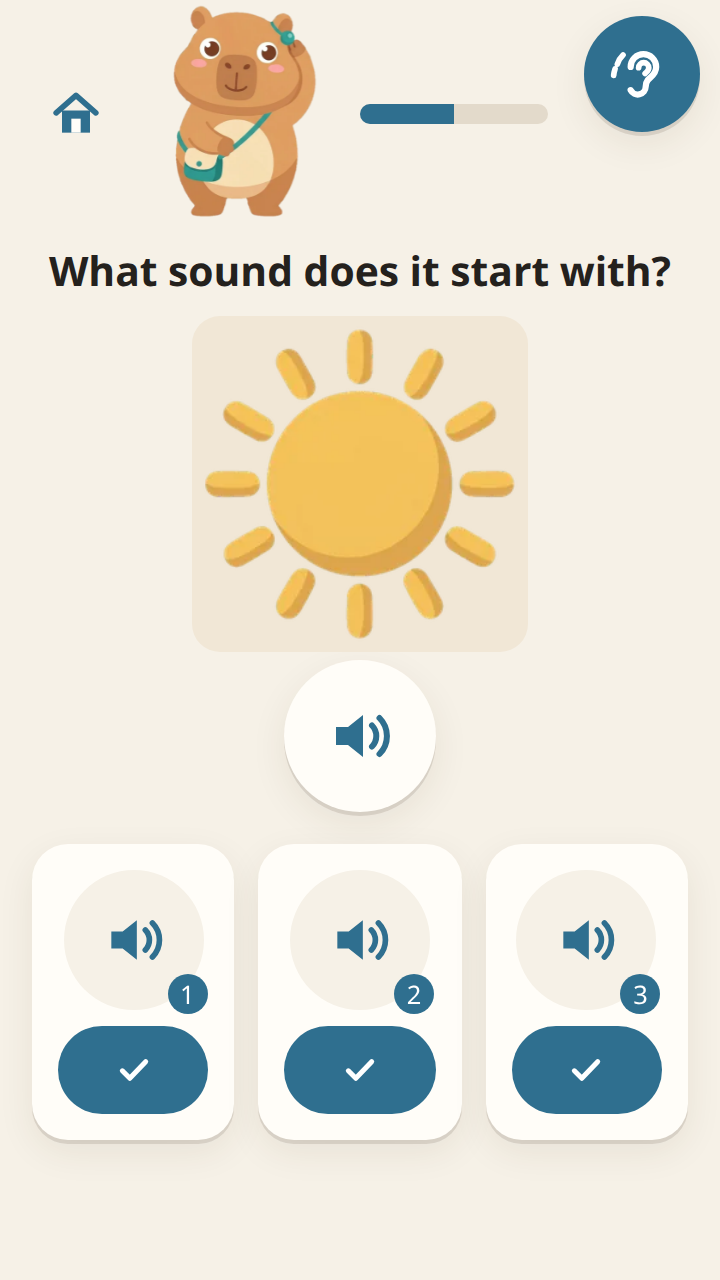
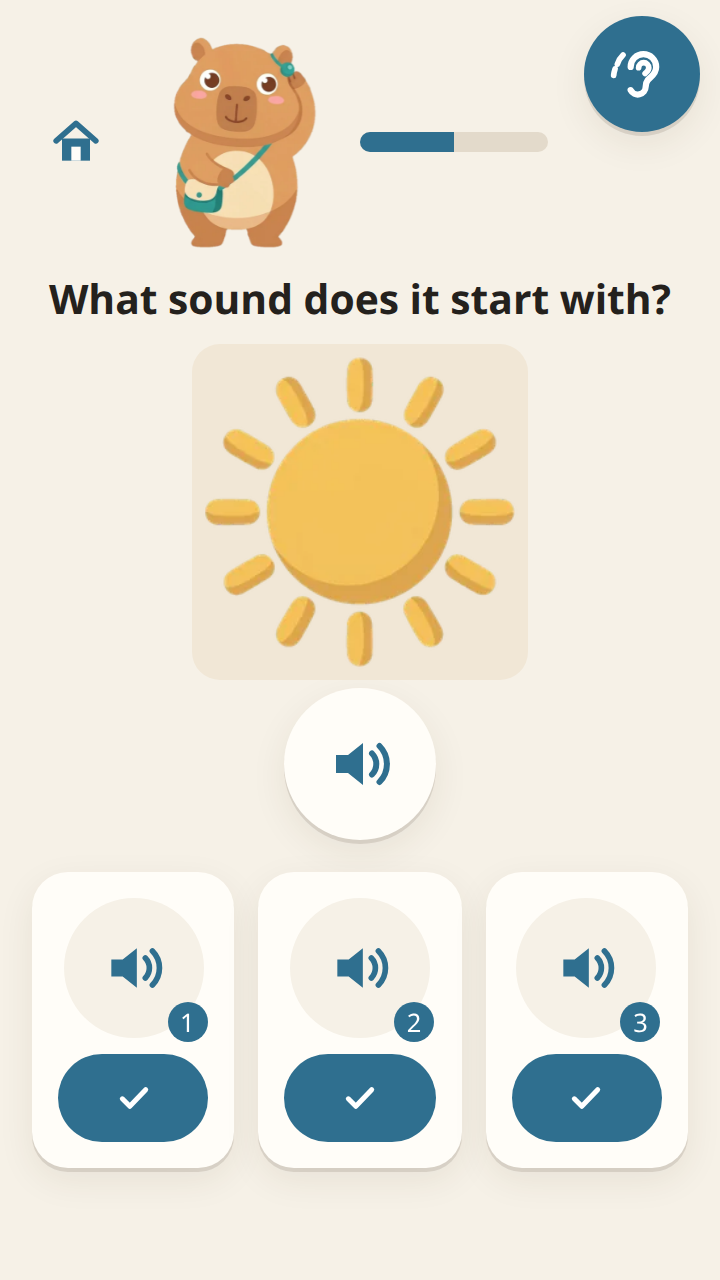
tilo: cheerful D/smile talking mouths, header gap, speaker glyph in empty picture box, listening pose + scene on Listen questions, pulsing hint halo

diff --git a/app/src/style.css b/app/src/style.css
@@ -146,12 +146,15 @@ table.mastery tr.unmet td { color: var(--bad); }
   background: var(--accent); color: #fff; box-shadow: var(--shadow); display: grid; place-items: center; padding: 0; }
 .ear .ear-ic svg { width: 34px; height: 34px; display: block; }
 .ear.playing { animation: pulse .8s ease-in-out infinite; }
-.ear.attn { outline: 5px solid var(--hl); outline-offset: 3px; animation: pulse 1s ease-in-out infinite; }
+.ear.attn { outline: 5px solid transparent; outline-offset: 3px; animation: halo 1.7s ease-in-out infinite; }
 header.hdr, .homehdr { padding-right: 70px; }   /* keeps the row clear of the fixed ear button */
 .homehdr { flex-wrap: wrap; row-gap: 2px; } .homehdr .btn { max-width: 100%; }
-.track-A header.hdr { padding-block: 2px; }
+.track-A header.hdr { padding-block: 16px 2px; }   /* a clear gap above Tilo's ears at 360x640 */
 .onboard { padding-top: 12vh; }
-.nudge { outline: 5px solid var(--hl); outline-offset: 3px; animation: pulse 1.1s ease-in-out 5; }
+.nudge { outline: 5px solid transparent; outline-offset: 3px; animation: halo 1.7s ease-in-out infinite; }
+/* the idle hint: a gentle breathing halo (never a constant ring, which reads as a selection); a still, soft ring under reduced motion */
+@keyframes halo { 0%, 100% { outline-color: rgba(255, 224, 138, 0); outline-offset: 2px; } 50% { outline-color: rgba(255, 214, 90, .95); outline-offset: 7px; } }
+@media (prefers-reduced-motion: reduce) { .nudge, .ear.attn { animation: none; outline-color: rgba(255, 214, 90, .7); } }
 .opt.nudge, .printed .g.nudge { border-radius: 14px; }
 .btn .bi svg, .opt-pick .bi svg, .node .bi svg { width: 22px; height: 22px; }
 .btn .bi, .opt-pick .bi { display: inline-grid; margin-right: 8px; vertical-align: middle; position: static; }
@@ -178,8 +181,6 @@ header.hdr, .homehdr { padding-right: 70px; }   /* keeps the row clear of the fi
 .tilo-body { position: absolute; inset: 0; width: 100%; height: 100%; opacity: 0; }
 .tilo-body.on { opacity: 1; }
 .tilo-mouth { position: absolute; transform-origin: 50% 8%; }
-/* aaa stays full size (its bottom already touches the muzzle edge); mid is a smaller, shallower mouth, so aaa reads clearly more open */
-.tilo-mouth[data-mouth="mid"] { transform: scale(.85, .66); }
 .tilo.pop .tilo-stage { animation: tilo-breathe 3.2s ease-in-out infinite, tilo-pop .32s ease-out; }
 .tilo[data-pose="celebrating"] .tilo-stage { animation: tilo-breathe 3.2s ease-in-out infinite, tilo-hop .7s ease-in-out 2; }
 @keyframes tilo-breathe { 0%, 100% { transform: scale(1, 1); } 50% { transform: scale(1.012, 1.022); } }
@@ -209,5 +210,8 @@ button:focus:not(:focus-visible), a:focus:not(:focus-visible) { outline: none; }
 .picture { animation: none; }
 .l1-opts .opt { display: flex; flex-direction: column; align-items: center; justify-content: space-between; }   /* a card without a picture (ambiguous word) keeps its button at the bottom, same size as the others */
 .l1-opts .opt .opt-pick { flex: none; }
-.picture-gap { width: 100%; max-width: 120px; aspect-ratio: 1; }   /* an ambiguous word has no picture: an empty box keeps the three cards the same size */
+.picture-gap { width: 100%; max-width: 120px; aspect-ratio: 1; display: grid; place-items: center; border-radius: 14px; border: 3px dotted #d9c9ae; background: #f7efe1; color: #b8a888; }   /* an ambiguous word has no picture: a soft dotted card with the speaker glyph keeps the three cards the same size and reads as "listen", not "missing" */
+.picture-gap svg { width: 44%; height: 44%; display: block; }
+.pics.scene { max-width: 190px; margin: 14px auto 0; } .pics.scene .picture { width: 100%; }
+@media (max-height: 700px) { .pics.scene { max-width: 170px; margin-top: 8px; } }
 @media (max-height: 700px) { .picture-gap { max-width: 96px; } }

diff --git a/app/src/screens/l1oral.js b/app/src/screens/l1oral.js
@@ -1,7 +1,7 @@
 // L1.01 "Sounds in Words": oral phonemic awareness, NO letters on screen (real pictures, none for ambiguous words),
 // except the 60-second preview of s and a at the very end. Words come from the course lesson (§2a-c).
 import { play, wait, mark } from '../audio.js';
-import { h, safePicture, speaker } from '../ui.js';
+import { h, safePicture, speaker, ICON } from '../ui.js';
 import { entry, g2p } from '../content.js';
 import { choose, choice, shuffle, sounds } from './l1steps.js';
 import { teacher } from '../teacher.js';
@@ -30,7 +30,7 @@ async function blendWord(ctx, w, pool, { test = false } = {}) {
   const s = stageFor(ctx, test ? 'oral-check' : 'oral-blend');
   s.append(h('h2', {}, 'Which word do the sounds make?'), speaker(null, { big: true, label: 'Hear the sounds again', onplay: () => sounds(ph(w)) }));
   const opts = shuffle([w, ...shuffle(pool.filter(x => x !== w)).slice(0, 2)]);
-  const c = choice(s, opts.map((o, i) => ({ key: `w:${o}`, body: pic(o, i) || h('div', { class: 'picture-gap', 'aria-hidden': 'true' }), ok: o === w, id: o })), { cls: 'three', test, model: [...ph(w), `w:${w}`] });
+  const c = choice(s, opts.map((o, i) => ({ key: `w:${o}`, body: pic(o, i) || h('div', { class: 'picture-gap', 'aria-hidden': 'true', html: ICON.speaker }), ok: o === w, id: o })), { cls: 'three', test, model: [...ph(w), `w:${w}`] });
   await ctx.instruct(test ? 'ui:l1OralCheck' : 'ui:l1OralBlend', { stim: () => sounds(ph(w)), nudge: 'ui:idlePick' });
   const r = await c.start();
   await ctx.record(`oral:blend:${w}`, 'oral', r);

diff --git a/app/src/screens/listen.js b/app/src/screens/listen.js
@@ -4,6 +4,7 @@
 import { play, wait, mark } from '../audio.js';
 import { h, speaker, picture } from '../ui.js';
 import { teacher } from '../teacher.js';
+import { tilo } from '../tilo.js';
 
 export async function listen(ctx) {
   const li = ctx.lesson.listen; const lid = ctx.lesson.id;
@@ -29,8 +30,11 @@ export async function listen(ctx) {
   for (let j = 0; j < 2 && ctx.hasClip(`q:${lid}:${j}`); j++) {
     const s3 = ctx.stage();
     const q = li.questions[j];
+    // the story's scene, smaller, fills the lower half; Tilo LISTENS here (the learner answers out loud), never the speaking pose
+    const scene = picture(`scene:${lid}:${j}`) || picture(`scene:${lid}:0`);
     s3.append(h('h2', {}, `Question ${j + 1}`), h('p', { class: 'question' }, q), speaker(`q:${lid}:${j}`, { label: 'Hear the question' }),
-      h('p', { class: 'muted talk' }, 'Say your answer out loud.'));
+      h('p', { class: 'muted talk' }, 'Say your answer out loud.'), ...(scene ? [h('div', { class: 'pics one scene' }, scene)] : []));
+    tilo.pin('listening');
     mark('listen-talk', { q: j });
     await ctx.instruct([`q:${lid}:${j}`, 'ui:idleSay'], { nudge: 'ui:idleArrow' });   // no right answer exists: talk, then the arrow. No praise.
     await ctx.next();

diff --git a/app/src/tilo.js b/app/src/tilo.js
@@ -58,7 +58,7 @@ function render() {
 }
 
 function startFlap() {
-  if (st.flapT) return;
+  if (st.flapT || st.hold) return;
   if (reduced()) { st.mouth = 'mid'; for (const [n, m] of Object.entries(mouths)) m.hidden = n !== 'mid'; return; }
   let last = '';
   const step = () => {
@@ -104,5 +104,7 @@ export const tilo = {
   mood(m) { if (!el) build(); st.mood = m; render(); },                                  // idle | listening
   emote(name, key, hold = 3000) { if (!el) build(); st.emote = name; st.emoteKey = key || null; clearTimeout(st.emoteT); st.emoteT = setTimeout(() => { st.emote = null; st.emoteKey = null; render(); }, hold); render(); },
   pin(name) { if (!el) build(); st.pinned = name; render(); },                            // held until the next screen, even while the voice talks
+  // test hook (tools/shoot_tilo.py): freeze the flap on one mouth so a screenshot cannot race it; hold(null) resumes
+  hold(n) { st.hold = n; if (n) { stopFlap(); st.mouth = n; for (const [k, m] of Object.entries(mouths)) m.hidden = k !== n; } else render(); },
   get state() { return { pose: el?.dataset.pose || null, track: st.track, speaking: st.speaking, mouth: st.mouth }; },
 };

diff --git a/tools/shoot_tilo.py b/tools/shoot_tilo.py
@@ -72,10 +72,32 @@ def main():
                 if bad: problems.append(f"Tilo overlaps {bad} on {name}")
             # ---- Track A, real speed
             pg = newpage(); onboard(pg, "A")
-            seen = set()
-            for i in range(2):
-                s = wait_state(pg, lambda s: s["pose"] == "speaking" and s["mouth"] not in seen, f"speaking with a new mouth #{i}", 12)
-                if s: seen.add(s["mouth"]); shot(pg, f"A_speaking_{i + 1}_{s['mouth']}")
+            # one CLOSED frame (mmm), one OPEN frame (aaa) and the middle one (mid): the flap must visibly alternate. Each frame is checked
+            # (the mouth state must be the same before and after the screenshot, the flap changes every ~100 ms) and cropped into mouth_zoom.png
+            from PIL import Image; import io
+            frames = {}
+            for want, name in (("mmm", "A_speaking_closed_mmm"), ("aaa", "A_speaking_open_aaa"), ("mid", "A_speaking_mid")):
+                if not wait_state(pg, lambda s: s["pose"] == "speaking", "speaking pose", 12): break
+                pg.evaluate(f"window.__so.tilo.hold('{want}')"); time.sleep(0.15)
+                box = pg.evaluate("(() => { const r = document.querySelector('.tilo-stage').getBoundingClientRect(); return [r.left, r.top, r.width, r.height]; })()")
+                png = pg.screenshot(); (OUT / f"{name}.png").write_bytes(png); frames[want] = (png, box)
+                if pg.evaluate("[...document.querySelectorAll('.tilo-mouth')].filter(m => !m.hidden).map(m => m.dataset.mouth).join()") != want: problems.append(f"frozen mouth is not {want}")
+                pg.evaluate("window.__so.tilo.hold(null)"); time.sleep(0.25)
+            if "mmm" in frames and "aaa" in frames and "mid" in frames:
+                tiles = []
+                for k in ("mmm", "mid", "aaa"):
+                    png, (x, y, w, h) = frames[k]; im = Image.open(io.BytesIO(png)); f = 2   # the shot is at device scale 2
+                    face = im.crop((int((x + w * .12) * f), int((y + h * .02) * f), int((x + w * .88) * f), int((y + h * .50) * f)))
+                    tiles.append(face.resize((face.width * 2, face.height * 2), Image.LANCZOS))   # 2 x 2 = 4x css px
+                strip = Image.new("RGB", (sum(t.width for t in tiles) + 12 * (len(tiles) - 1), tiles[0].height), (246, 241, 231)); xx = 0
+                for t in tiles: strip.paste(t, (xx, 0)); xx += t.width + 12
+                strip.save(OUT / "mouth_zoom.png")
+                a, b_ = Image.open(io.BytesIO(frames["mmm"][0])).convert("RGB"), Image.open(io.BytesIO(frames["aaa"][0])).convert("RGB")
+                from PIL import ImageChops
+                if not ImageChops.difference(a, b_).getbbox(): problems.append("closed and open speaking frames are identical")
+            else: problems.append(f"missing speaking frames, got {sorted(frames)}")
+            bad = pg.evaluate(OVERLAP)
+            if bad: problems.append(f"Tilo overlaps {bad} on speaking")
             wait_state(pg, lambda s: s["pose"] == "listening", "listening after the prompt", 40); time.sleep(0.2); shot(pg, "A_listening")
             pg.evaluate("window.__so.teacher.right({kind:'pick'})")
             if wait_state(pg, lambda s: s["pose"] == "celebrating", "celebrating", 3): time.sleep(0.3); shot(pg, "A_celebrating")
@@ -89,6 +111,7 @@ def main():
             # at tier 3 the idle ladder shows its own hints on purpose (a yellow nudge ring on a card, a ring on the ear): shoot that as A_idle_hint,
             # then clear the hints and shoot the calm idle state as A_idle (that one must have no ring at all)
             if wait_state(pg, lambda s: s["tier"] >= 3 and s["pose"] == "idle", "idle pose on the idle ladder", 60):
+                pg.wait_for_function("[...document.querySelectorAll('.nudge, .ear.attn')].some(e => +(getComputedStyle(e).outlineColor.match(/[\\d.]+/g)[3] ?? 1) > .8)", timeout=6000)   # shoot at the halo's peak (it pulses)
                 shot(pg, "A_idle_hint"); pg.evaluate("window.__so.teacher.clearHints()"); time.sleep(0.5); shot(pg, "A_idle")
                 if pg.evaluate("document.querySelector('.nudge, .ear.attn')"): problems.append("a hint ring is still on after clearHints")
             # ---- Home (Tilo in the hero) and the end-of-sitting hero

diff --git a/tools/gen_tilo_mouths.py b/tools/gen_tilo_mouths.py
@@ -1,0 +1,52 @@
+#!/usr/bin/env python3
+"""Redraw Tilo's talking mouths (mid, aaa = cheerful open D/smile shapes; mmm = closed smile line) with PIL.
+Same canvas (78x74 @2x, 39x37 @1x), same brown outline + pink inside as the original cut-out art, stalk under the nose kept.
+  python3 tools/gen_tilo_mouths.py
+"""
+from pathlib import Path
+from PIL import Image, ImageChops, ImageDraw, ImageFilter
+OUT = Path(__file__).resolve().parent.parent / "app/public/img/tilo"
+S = 8; W, H = 78, 74
+BROWN = (125, 62, 27, 255); INSIDE = (104, 48, 24, 255); PINK = (238, 128, 116, 255)
+
+def bez(p0, p1, p2, n=60):
+    return [((1-t)**2*p0[0]+2*(1-t)*t*p1[0]+t*t*p2[0], (1-t)**2*p0[1]+2*(1-t)*t*p1[1]+t*t*p2[1]) for t in [i/n for i in range(n+1)]]
+
+def sc(pts): return [(x*S, y*S) for x, y in pts]
+
+def canvas(): return Image.new("RGBA", (W*S, H*S), (0, 0, 0, 0))
+
+def stalk(d, y1):
+    d.line(sc([(39, 5), (39, y1)]), fill=BROWN, width=5*S); 
+    for y in (5, y1): d.ellipse([(39-2.5)*S, (y-2.5)*S, (39+2.5)*S, (y+2.5)*S], fill=BROWN)
+
+def line_curve(d, pts, w):
+    d.line(sc(pts), fill=BROWN, width=int(w*S), joint="curve")
+    for x, y in (pts[0], pts[-1]): d.ellipse([(x-w/2)*S, (y-w/2)*S, (x+w/2)*S, (y+w/2)*S], fill=BROWN)
+
+def smile():
+    im = canvas(); d = ImageDraw.Draw(im)
+    stalk(d, 32); line_curve(d, bez((13, 33), (39, 52), (65, 33)), 5)
+    return im
+
+def dmouth(depth, tongue, rx=27, y0=26):
+    """a rounded D: slightly sagging top edge, full superellipse belly, rounded corners (turned up)"""
+    top = [(39 + rx*u, y0 + 3.5*(1-u*u)) for u in [i/40*2-1 for i in range(41)]]
+    bot = [(39 + rx*u, y0 + depth*(1-abs(u)**2.6)**(1/2.6)) for u in [1-i/60*2 for i in range(61)]]
+    m = Image.new("L", (W*S, H*S), 0); ImageDraw.Draw(m).polygon(sc(top + bot), fill=255)
+    m = m.filter(ImageFilter.GaussianBlur(2.2*S)).point(lambda v: 255 if v > 128 else 0)   # round the corners
+    im = canvas(); d = ImageDraw.Draw(im); stalk(d, y0 + 2)
+    im.paste(Image.new("RGBA", im.size, BROWN), (0, 0), m)
+    inner = m.filter(ImageFilter.MinFilter(4*S + 1))                                         # uniform ~2px outline
+    im.paste(Image.new("RGBA", im.size, INSIDE), (0, 0), inner)
+    t = Image.new("L", im.size, 0); by = y0 + depth + 1
+    ImageDraw.Draw(t).ellipse([(39-tongue[0])*S, (by-tongue[1]*2)*S, (39+tongue[0])*S, by*S], fill=255)
+    t = ImageChops.multiply(t, inner); im.paste(Image.new("RGBA", im.size, PINK), (0, 0), t)
+    return im
+
+def save(im, n):
+    big = im.resize((W, H), Image.LANCZOS); small = im.resize((W//2, H//2), Image.LANCZOS)
+    big.save(OUT / f"mouth_{n}_2x.webp", lossless=True, quality=100); small.save(OUT / f"mouth_{n}_1x.webp", lossless=True, quality=100)
+
+save(smile(), "mmm"); save(dmouth(17, (12, 5)), "mid"); save(dmouth(33, (18, 9)), "aaa")
+print("mouths written")

diff --git a/tools/shoot_pictures.py b/tools/shoot_pictures.py
@@ -73,6 +73,9 @@ def main():
                         pg.wait_for_function(LOADED); time.sleep(0.3); pg.screenshot(path=str(OUT / "3_listen_story.png")); seen_scene = True
                     if pg.locator(".talk").count():
                         time.sleep(0.4); pg.screenshot(path=str(OUT / "4_listen_question.png")); seen_q = True
+                        pose = pg.evaluate("window.__so.tilo.state.pose")
+                        if pose != "listening": problems.append(f"listen question: Tilo pose is {pose}, want listening")
+                        if not pg.locator(".talk ~ .pics.scene .picture img").count(): problems.append("listen question: no scene picture")
                         if pg.locator(".answer").count(): problems.append("graded picture answers still on the Listen question")
                         break
                     nb = pg.locator(".foot .next:not([hidden]):not([disabled])")
